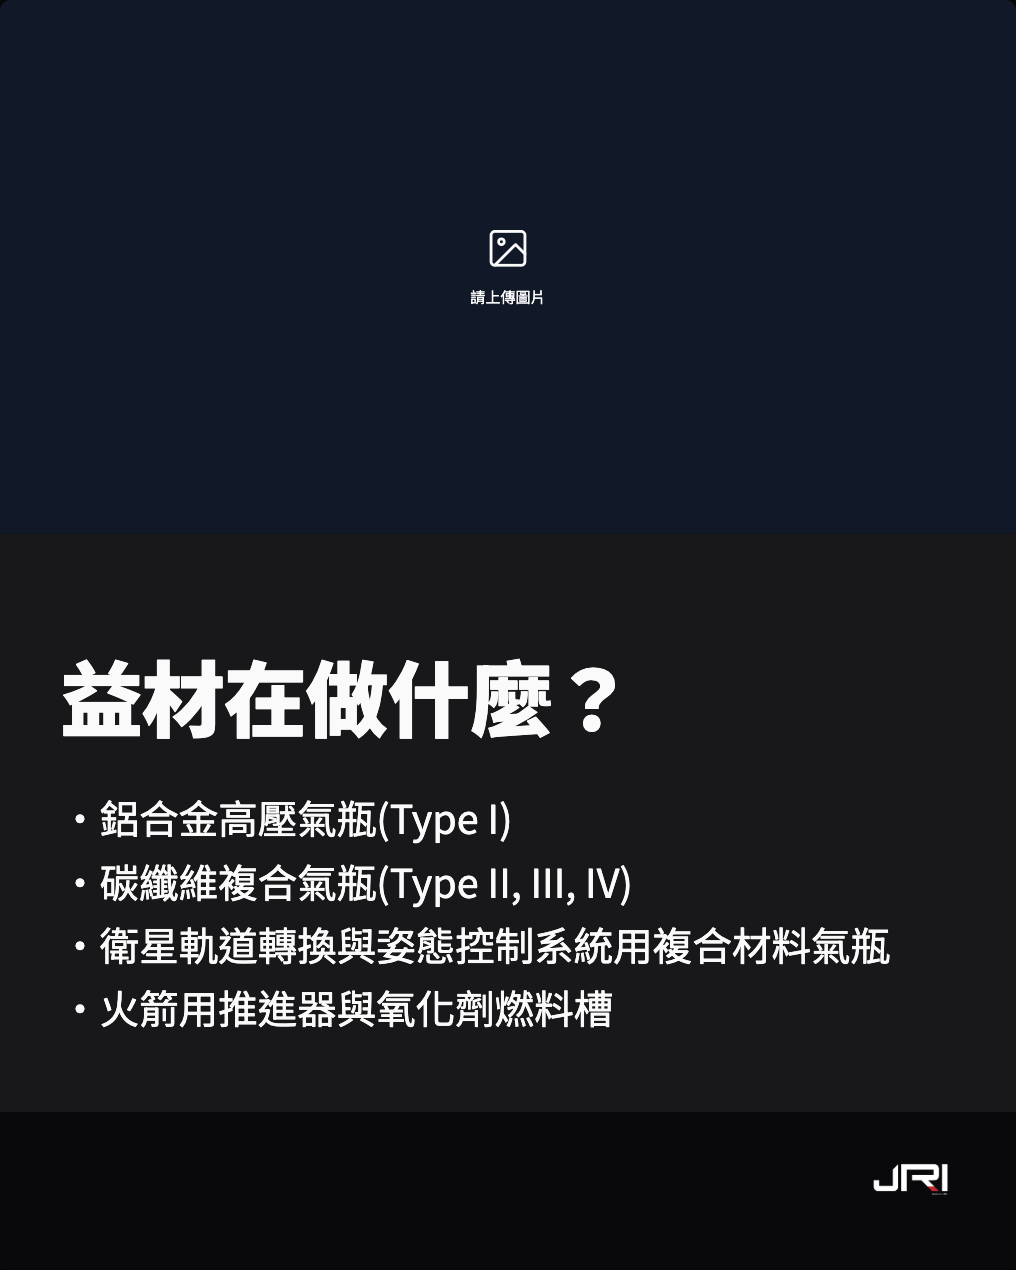
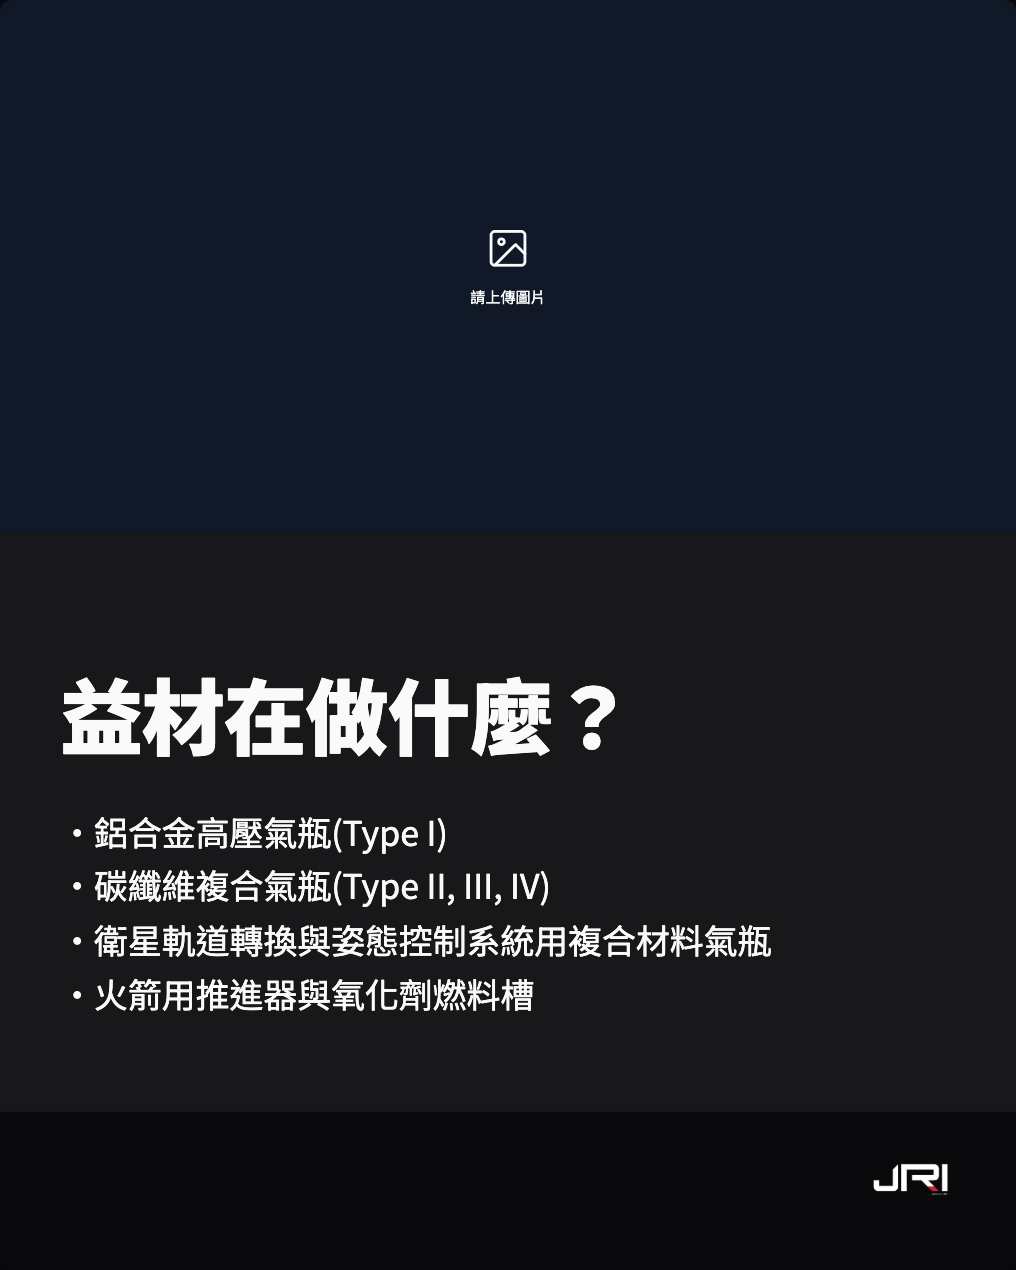
fix(layout): replace css var gradient with inline style to fix modern-screenshot dropping fade effect

Changed region(s): [[0.061, 0.522, 0.8848, 0.8291]]

diff --git a/src/layouts/LayoutFade.jsx b/src/layouts/LayoutFade.jsx
@@ -4,6 +4,10 @@ import styles from './LayoutFade.module.css';
 
 const LayoutFade = ({ state, canvasRef, contentBoxRef }) => {
   const imgData = state.images?.[0];
+  const isLight = state.theme === 'theme-light';
+  const bgStart = isLight ? 'rgba(243, 244, 246, 0)' : 'rgba(9, 9, 11, 0)';
+  const bgEnd = isLight ? '#f3f4f6' : '#09090b';
+  const fadeGradient = `linear-gradient(to bottom, ${bgStart} 0%, ${bgEnd} 100%)`;
 
   return (
     <LayoutWrapper 
@@ -25,7 +29,7 @@ const LayoutFade = ({ state, canvasRef, contentBoxRef }) => {
                 }}
                 alt="fade-bg"
               />
-              <div className={styles.postImageOverlay} style={{ position: 'absolute', inset: 0 }} />
+              <div className={styles.postImageOverlay} style={{ position: 'absolute', inset: 0, background: fadeGradient }} />
             </>
           )}
         </div>

diff --git a/src/layouts/LayoutFade.module.css b/src/layouts/LayoutFade.module.css
@@ -1,6 +1,6 @@
 .layoutRoot { padding: 0; gap: 0; }
 .layoutRoot .postImage { position: absolute; top: 0; left: 0; right: 0; height: 70%; background-color: var(--ig-image-bg); z-index: 1; overflow: hidden; }
-.postImageOverlay { position: absolute; inset: 0; background: linear-gradient(to bottom, var(--ig-bg-transparent) 0%, var(--ig-bg) 100%); }
+.postImageOverlay { position: absolute; inset: 0; }
 .layoutRoot .contentBox { position: relative; flex: none; max-height: 45%; z-index: 2; background: transparent; border: none; padding: 40px 80px 140px 80px; justify-content: flex-start; margin-top: auto; }
 .layoutRoot .postFooter { position: absolute; bottom: 50px; left: 80px; right: 80px; padding: 0; z-index: 2; }
 
